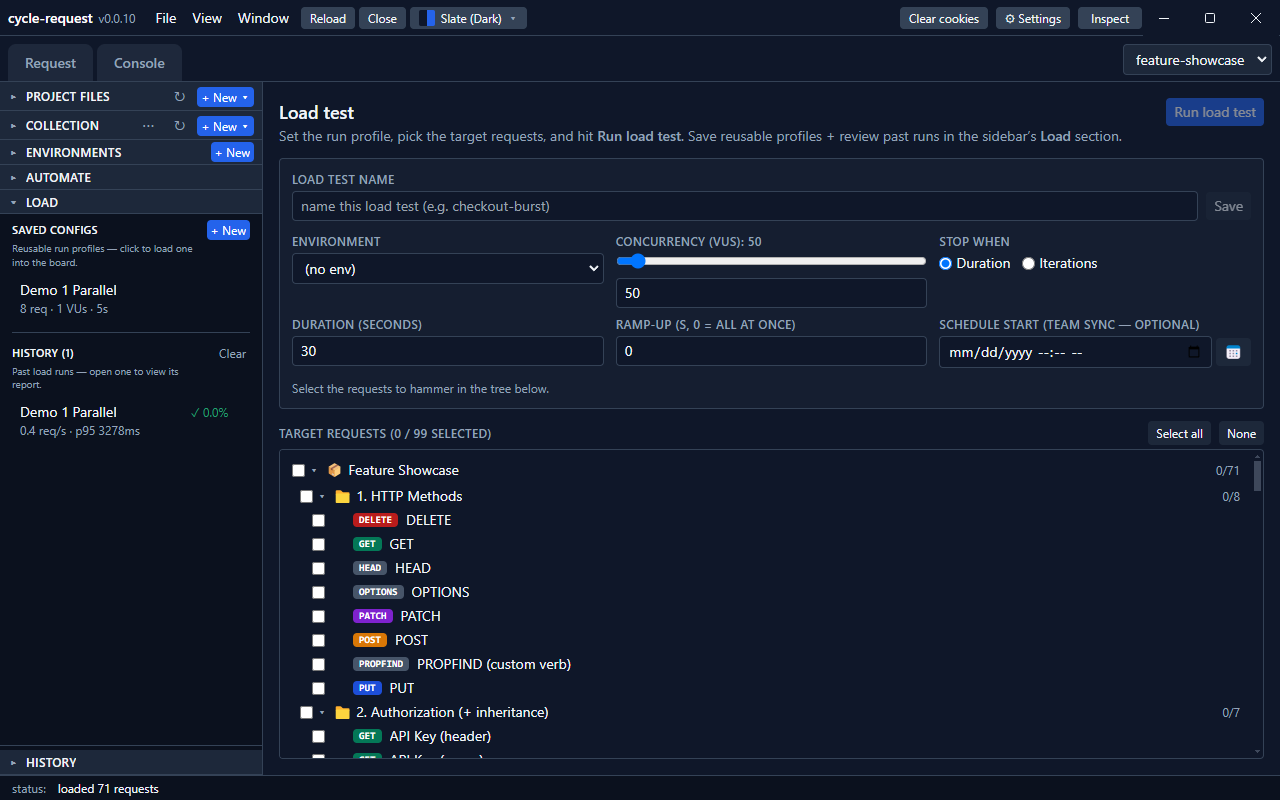
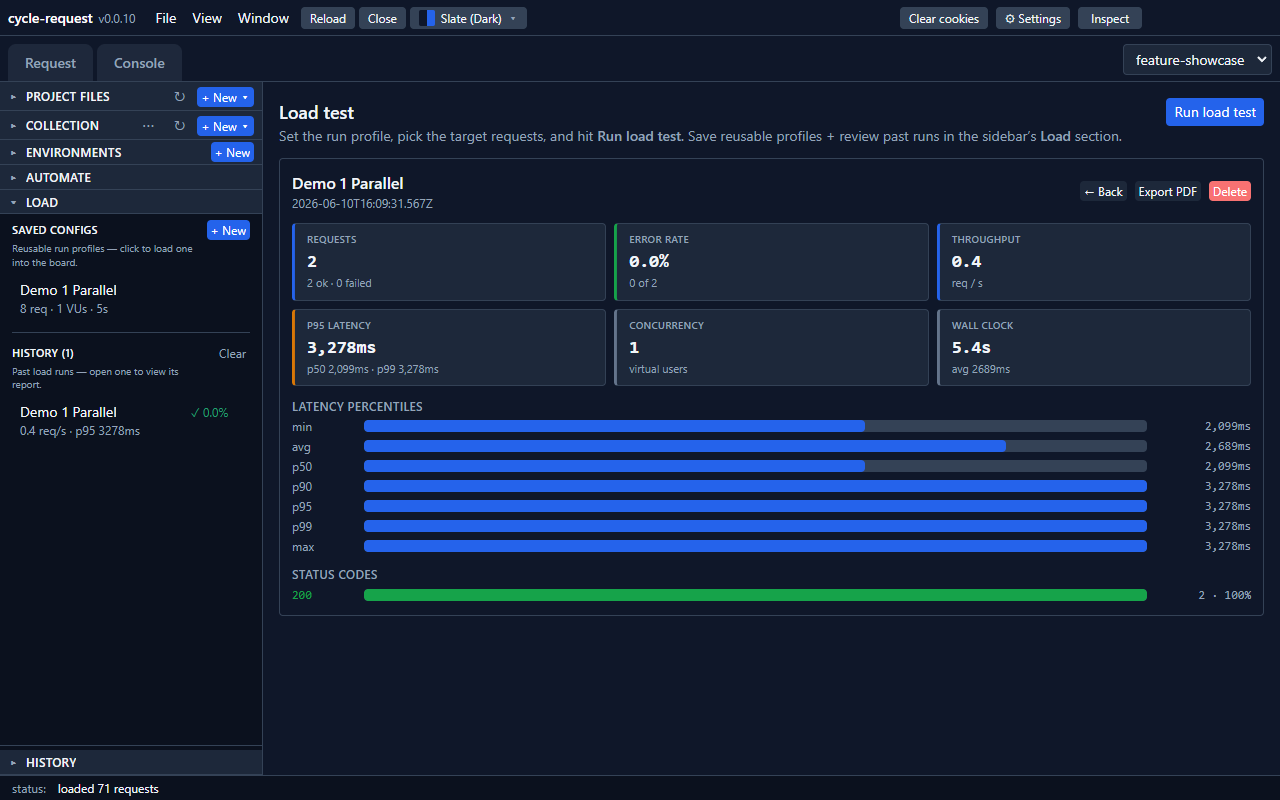
docs: use the load-test results dashboard screenshot
Swap the Load testing image to the analytics view (KPI tiles, latency
percentiles p50-p99, status-code distribution) from a run's history
entry -- shows the result analytics rather than the empty run form.

diff --git a/README.md b/README.md
@@ -40,9 +40,9 @@ open existing Postman collections directly and hand them back unchanged.
 
 ![Build a run](screenshots/build-a-run.png)
 
-**Load testing** — drive a k6-style concurrent load test from your existing collection: name the run, set concurrency / duration / ramp-up (or a scheduled team-sync start), pick the target requests, and review live metrics + saved run history.
+**Load testing** — drive a k6-style concurrent load test from your existing collection, then review a full results dashboard for every run: requests, error rate, throughput, latency percentiles (p50–p99), concurrency, wall-clock, and status-code distribution — saved to history and exportable to PDF.
 
-![Load testing](screenshots/load-test.png)
+![Load testing results](screenshots/load-test.png)
 
 ## Key features
 